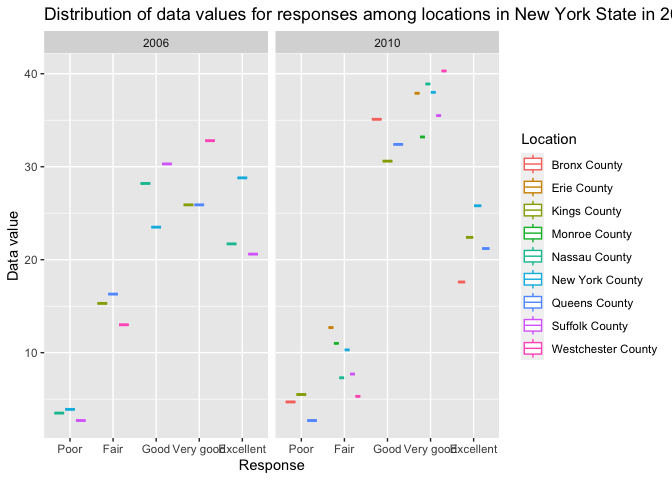
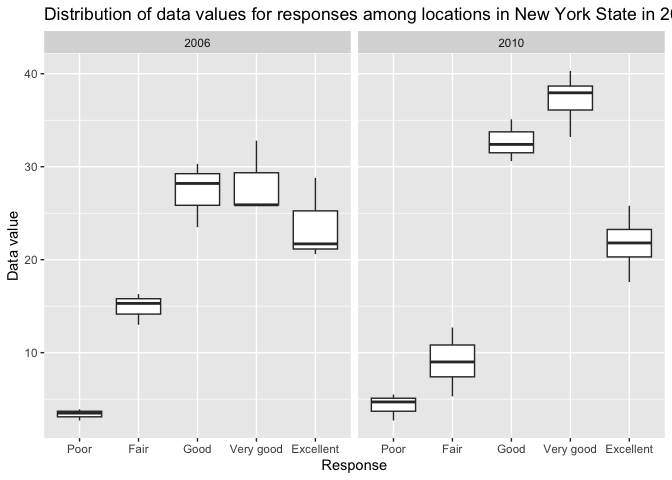
cleaned up my Markdown file for easier reading

diff --git a/p8105_hw3_smy2122.md b/p8105_hw3_smy2122.md
@@ -112,9 +112,6 @@ instacart_df |>
   knitr::kable()
 ```
 
-    ## `summarise()` has grouped output by 'product_name'. You can override using the
-    ## `.groups` argument.
-
 | product_name     |        0 |        1 |        2 |        3 |        4 |        5 |        6 |
 |:-----------------|---------:|---------:|---------:|---------:|---------:|---------:|---------:|
 | Coffee Ice Cream | 13.77419 | 14.31579 | 15.38095 | 15.31818 | 15.21739 | 12.26316 | 13.83333 |
@@ -164,9 +161,6 @@ brffs_df |>
   knitr::kable()
 ```
 
-    ## `summarise()` has grouped output by 'state'. You can override using the
-    ## `.groups` argument.
-
 | state | year |   n |
 |:------|-----:|----:|
 | PA    | 2002 |  10 |
@@ -187,9 +181,6 @@ brffs_df |>
   arrange(year, desc(n)) |>
   knitr::kable()
 ```
-
-    ## `summarise()` has grouped output by 'state'. You can override using the
-    ## `.groups` argument.
 
 | state | year |   n |
 |:------|-----:|----:|
@@ -235,7 +226,7 @@ brffs_df |>
   filter(
     year == c(2006, 2010),
     state == "NY") |>
-  ggplot(aes(x = response, y = data_value, color = county)) +
+  ggplot(aes(x = response, y = data_value)) +
   geom_boxplot() +
   facet_grid(. ~ year) +
   labs(
@@ -255,7 +246,7 @@ brffs_df |>
 
 # Problem 3
 
-First, I will import the data set.
+First, I will import, clean, and tidy the two data sets.
 
 ``` r
 demographic_df =
@@ -263,27 +254,58 @@ demographic_df =
     "./data/nhanes_covar.csv",
     skip = 4,
     na = "NA") |>
-  janitor::clean_names()
-```
+  janitor::clean_names() |>
+  filter(age >= 21) |>
+  drop_na() |>
+  mutate(
+    sex =
+      case_match(
+        sex,
+        1 ~ "male",
+        2 ~ "female"),
+        sex = as.factor(sex)
+  ) |>
+  mutate(
+    education =
+      case_match(
+        education,
+        1 ~ "less than high school",
+        2 ~ "high school equivalent",
+        3 ~ "more than high school"),
+    education = as.factor(education)
+  )
 
-    ## Rows: 250 Columns: 5
-    ## ── Column specification ────────────────────────────────────────────────────────
-    ## Delimiter: ","
-    ## dbl (5): SEQN, sex, age, BMI, education
-    ## 
-    ## ℹ Use `spec()` to retrieve the full column specification for this data.
-    ## ℹ Specify the column types or set `show_col_types = FALSE` to quiet this message.
-
-``` r
 accelerometer_df =
   read_csv("./data/nhanes_accel.csv") |>
   janitor::clean_names()
 ```
 
-    ## Rows: 250 Columns: 1441
-    ## ── Column specification ────────────────────────────────────────────────────────
-    ## Delimiter: ","
-    ## dbl (1441): SEQN, min1, min2, min3, min4, min5, min6, min7, min8, min9, min1...
-    ## 
-    ## ℹ Use `spec()` to retrieve the full column specification for this data.
-    ## ℹ Specify the column types or set `show_col_types = FALSE` to quiet this message.
+Now, I will merge the two data sets.
+
+``` r
+merged_df =
+  inner_join(demographic_df, accelerometer_df)
+```
+
+    ## Joining with `by = join_by(seqn)`
+
+Below is a table of the number of men and women in each education
+category.
+
+``` r
+demographic_df |>
+  count(sex, education) |>
+  pivot_wider(
+    names_from = "education",
+    values_from = n
+  ) |>
+  knitr::kable()
+```
+
+| sex    | high school equivalent | less than high school | more than high school |
+|:-------|-----------------------:|----------------------:|----------------------:|
+| female |                     23 |                    28 |                    59 |
+| male   |                     35 |                    27 |                    56 |
+
+Below is a visualization of the age distributions for men and women in
+each education category.
